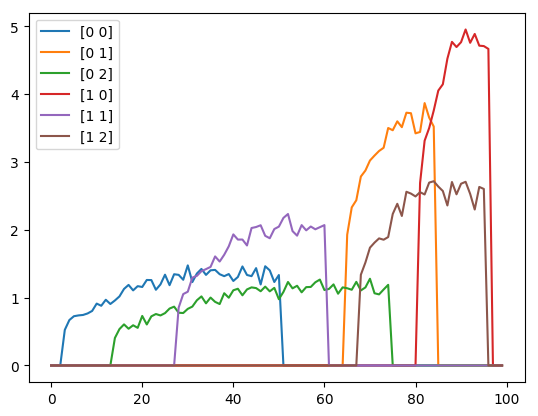
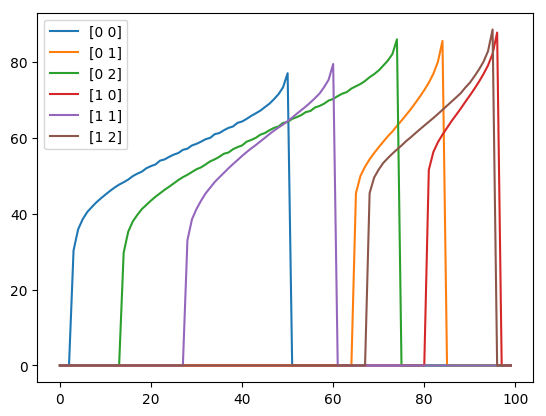
refactoring and bug fixing

diff --git a/src/cfa/cfa.py b/src/cfa/cfa.py
@@ -8,6 +8,7 @@ import ot
 import numpy as np
 import pandas as pd
 import matplotlib.pyplot as plt
+from mpmath import norm
 
 
 class ContinuousFairnessAlgorithm():
@@ -15,10 +16,15 @@ class ContinuousFairnessAlgorithm():
     TODO: write doc
     """
 
-    def __init__(self, rawData, score_ranges, score_stepsize, thetas, regForOT, path='.', plot=False):
+    def __init__(self, rawData, groups, prot_attr, qual_attr, score_ranges, score_stepsize, thetas, regForOT, path='.', plot=False):
         """
         @param rawData:          pandas dataframe with scores per group, groups do not necessarily have same
                                  amount of scores, i.e. data might contain NaNs
+        @param groups:           all possible groups in data as dataframe. One row contains manifestations
+                                 of protected attributes, hence represents a group
+                                 example: [[white, male], [white, female], [hispanic, male], [hispanic, female]]
+        @param prot_attr:        column names that are protected attributes
+        @param qual_attr:        name of column that contains the scores
         @param score_ranges:     tuple that contains the lower and upper most possible score
         @param score_stepsize:   stepsize between two scores
         @param thetas:           vector of parameters that determine how close a distribution is to be moved to
@@ -30,7 +36,11 @@ class ContinuousFairnessAlgorithm():
         """
 
         self.__rawData = rawData
-        self.__groupNames = self.__rawData.columns.values.tolist()
+        self.__qualityAtribute = qual_attr
+        self.__protectedAttributes = prot_attr
+        self.__rawDataByGroup = self.__getScoresByGroup(rawData, groups, qual_attr)
+        self.__groupNames = self.__rawDataByGroup.columns.values.tolist()
+        self.__groups = groups  # TODO: das könnte man elefanter lösen, hier ist jetzt einiges doppelt und dreifach...nochmal refactoring machen
         self.__score_values = np.arange(score_ranges[0], score_ranges[1] + score_stepsize, score_stepsize)
         # calculate bin number for histograms and loss matrix size
         self.__num_bins = int(len(self.__score_values))
@@ -43,16 +53,43 @@ class ContinuousFairnessAlgorithm():
         self.__regForOT = regForOT
 
         self.__fairData = pd.DataFrame()
-        self.__rawDataAsHistograms = pd.DataFrame(columns=self.__groupNames)
+        self.__rawDataPerGroupAsHistograms = pd.DataFrame(columns=self.__groupNames)
         self.__fairDataAsHistograms = pd.DataFrame(columns=self.__groupNames)
 
         self.__plotPath = path
         self.__plot = plot
 
-    def __getGroupHistograms(self, data, histograms, bin_edges):
+    def __getScoresByGroup(self, data, groups, qual_attr):
+        """
+        takes a dataset with one item per row and each item has qualifying as well as sensitive
+        attributes.
+        takes all values from column qual_attr and resorts data such that result contains all scores from
+        qual_attr in one column per group of sensitive attributes.
+
+            @param groups:                 all possible groups in data as dataframe. One row contains manifestations
+                                           of protected attributes, hence represents a group
+                                           example: [[white, male], [white, female], [hispanic, male], [hispanic, female]]
+        @param qual_attr:              name of column that contains the quality attribute (only one possible)
+
+        @return: dataframe with group labels as column names and scores per group as column values
+        """
+        protectedAttributes = groups.columns.values
+        result = pd.DataFrame(dtype=float)
+        # select all rows that belong to one group
+        for _, group in groups.iterrows():
+            colName = str(group.values)
+            scoresPerGroup = pd.DataFrame(data)
+            for prot_attr in protectedAttributes:
+                scoresPerGroup = scoresPerGroup.loc[(scoresPerGroup[prot_attr] == group.get(prot_attr))]
+            resultCol = pd.DataFrame(data=scoresPerGroup[qual_attr].values, columns=[colName])
+            # needs concat to avoid data loss in case new resultCol is longer than already existing result
+            # dataframe
+            result = pd.concat([result, resultCol], axis=1)
+        return result
+
+    def __getDataAsHistograms(self, data, histograms, bin_edges):
         # get histogram from each column and save to new dataframe
         # gets as parameters pointers to raw data and new dataframe where to save the histograms
-
         for groupName in data.columns:
             groupColNoNans = pd.DataFrame(data[groupName][~np.isnan(data[groupName])])
             colAsHist = np.histogram(groupColNoNans[groupName], bins=bin_edges, density=True)[0]
@@ -63,11 +100,11 @@ class ContinuousFairnessAlgorithm():
 
     def __getTotalBarycenter(self):
         # calculate group sizes in total and percent
-        groupSizes = self.__rawData.count()
-        groupSizesPercent = self.__rawData.count().divide(groupSizes.sum())
+        groupSizes = self.__rawDataByGroup.count()
+        groupSizesPercent = self.__rawDataByGroup.count().divide(groupSizes.sum())
 
         # compute general barycenter of all score distributions
-        total_bary = ot.bregman.barycenter(self.__rawDataAsHistograms,
+        total_bary = ot.bregman.barycenter(self.__rawDataPerGroupAsHistograms,
                                            self.__lossMatrix,
                                            self.__regForOT,
                                            weights=groupSizesPercent.values,
@@ -81,9 +118,9 @@ class ContinuousFairnessAlgorithm():
     def __get_group_barycenters(self, total_bary):
         # compute barycenters between general barycenter and each score distribution (i.e. each social group)
         group_barycenters = pd.DataFrame(columns=self.__groupNames)
-        for groupName in self.__rawDataAsHistograms:  # build 2-column matrix from group data and general barycenter
-            groupMatrix = pd.concat([self.__rawDataAsHistograms[groupName], pd.Series(total_bary)], axis=1)  # get corresponding theta
-            theta = self.__thetas[self.__rawDataAsHistograms.columns.get_loc(groupName)]  # calculate barycenters
+        for groupName in self.__rawDataPerGroupAsHistograms:  # build 2-column matrix from group data and general barycenter
+            groupMatrix = pd.concat([self.__rawDataPerGroupAsHistograms[groupName], pd.Series(total_bary)], axis=1)  # get corresponding theta
+            theta = self.__thetas[self.__rawDataPerGroupAsHistograms.columns.get_loc(groupName)]  # calculate barycenters
             weights = np.array([1 - theta, theta])
             group_barycenters[groupName] = ot.bregman.barycenter(groupMatrix,
                                                                  self.__lossMatrix,
@@ -96,37 +133,56 @@ class ContinuousFairnessAlgorithm():
             self.__plott(group_barycenters, 'groupBarycenters.png')
         return group_barycenters
 
-    def __calculateFairScores(self, group_barycenters, total_bary):
+    def __calculateFairReplacementStrategy(self, group_barycenters):
         # calculate new scores from group barycenters
         groupFairScores = pd.DataFrame(columns=self.__groupNames)
         for groupName in self.__groupNames:
-            ot_matrix = ot.emd(self.__rawDataAsHistograms[groupName],
+            ot_matrix = ot.emd(self.__rawDataPerGroupAsHistograms[groupName],
                                group_barycenters[groupName],
                                self.__lossMatrix)
 #             plt.imshow(ot_matrix)
-#             plt.show()
-            # TODO: landet man damit auf jeden Fall im gleichen Score Range?
-            groupFairScores[groupName] = np.matmul(ot_matrix, self.__score_values.T)
+            # normalize OT matrix such that each row sums up to 1
+            norm_vec = np.matmul(ot_matrix, np.ones(ot_matrix.shape[0]))
+            inverse_norm_vec = np.reciprocal(norm_vec)
+            inverse_norm_vec = np.nan_to_num(inverse_norm_vec, copy=False)
+            norm_matrix = np.diag(inverse_norm_vec)
+            normalized_ot_matrix = np.matmul(norm_matrix, ot_matrix)
+
+            groupFairScores[groupName] = np.matmul(normalized_ot_matrix, self.__score_values.T)
 
         if self.__plot:
             self.__plott(groupFairScores, 'fairScoreReplacementStrategy.png')
 
-        for groupName in self.__rawData.columns:
-            groupRawScores = self.__rawData[groupName][~np.isnan(self.__rawData[groupName])]
-            fairScores = groupFairScores[groupName]
+        return groupFairScores
 
+    def __replaceRawByFairScores(self, groupFairScores):
+
+        def replace(rawData, colName, groupName):
+            rawScores = rawData[colName]
+            replaced = rawData.copy()
+            fairScores = groupFairScores[groupName]
             for index, fairScore in fairScores.iteritems():
                 range_left = self.__bin_edges[index]
                 range_right = self.__bin_edges[index + 1]
-                toBeReplaced = np.where((groupRawScores > range_left) & (groupRawScores <= range_right))[0]
-                groupRawScores[toBeReplaced] = fairScore
-            self.__fairData = pd.concat([self.__fairData, groupRawScores], axis=1)
+                replaceAtIndex = rawScores.between(range_left, range_right)
+                replaced.at[replaceAtIndex, colName] = fairScore
+                # TODO: fair scores stehen nicht an der richtigen Stelle, d.h. für Gruppe 00 stehen die
+                # fair scores in den vorderen Indexen, aber die Scores fangen erst höher an
+            return replaced
+
+        for groupName in groupFairScores.columns:
+            self.__fairData = self.__rawData.copy()
+            self.__fairData = self.__fairData.groupby(list(self.__protectedAttributes), as_index=False,
+                                                    sort=False).apply(replace,
+                                                                      colName=self.__qualityAtribute,
+                                                                      groupName=groupName)
 
         if self.__plot:
-            self.__fairData.plot.kde()
-            plt.savefig(self.__plotPath + 'fairScoreDistributionPerGroup.png', dpi=100, bbox_inches='tight')
-            bin_edges = np.linspace(groupFairScores.min().min(), groupFairScores.max().max(), int(self.__num_bins))
-            self.__getGroupHistograms(self.__fairData, self.__fairDataAsHistograms, bin_edges)
+            fairDataPerGroup = self.__getScoresByGroup(self.__fairData, self.__groups, self.__qualityAtribute)
+#             fairDataPerGroup.plot.kde()
+#             plt.savefig(self.__plotPath + 'fairScoreDistributionPerGroup.png', dpi=100, bbox_inches='tight')
+#             bin_edges = np.linspace(groupFairScores.min().min(), groupFairScores.max().max(), int(self.__num_bins))
+            self.__getDataAsHistograms(fairDataPerGroup, self.__fairDataAsHistograms, self.__bin_edges)
             self.__plott(self.__fairDataAsHistograms, 'fairScoresAsHistograms.png')
 
     def __plott(self, dataframe, filename):
@@ -139,13 +195,14 @@ class ContinuousFairnessAlgorithm():
         and they have to be represented somehow as integers, otherwise the algorithm doesn't work
         """
 
-        self.__getGroupHistograms(self.__rawData, self.__rawDataAsHistograms, self.__bin_edges)
-        print(self.__rawDataAsHistograms.idxmax())
+        self.__getDataAsHistograms(self.__rawDataByGroup, self.__rawDataPerGroupAsHistograms, self.__bin_edges)
+        print(self.__rawDataPerGroupAsHistograms.idxmax())
         if self.__plot:
-            self.__plott(self.__rawDataAsHistograms, 'rawScoresAsHistograms.png')
+            self.__plott(self.__rawDataPerGroupAsHistograms, 'rawScoresAsHistograms.png')
 
         total_bary = self.__getTotalBarycenter()
         group_barycenters = self.__get_group_barycenters(total_bary)
 
-        self.__calculateFairScores(group_barycenters, total_bary)
+        fairScoreReplacementStrategy = self.__calculateFairReplacementStrategy(group_barycenters)
+        self.__replaceRawByFairScores(fairScoreReplacementStrategy)
 

diff --git a/src/main.py b/src/main.py
@@ -46,7 +46,7 @@ def createLSATDatasets():
     plotKDEPerGroup(creator.dataset, creator.groups, 'ZFYA', '../data/LSAT/gender/scoreDistributionPerGroup_Gender_ZFYA', '')
 
 
-def rerank_with_cfa(score_ranges, score_stepsize, thetas, result_dir, pathToData, pathToGroups, qual_attr):
+def rerank_with_cfa(score_ranges, score_stepsize, thetas, result_dir, pathToData, pathToGroups, qual_attr, prot_attr):
     data = pd.read_csv(pathToData, sep=',')
     groups = pd.read_csv(pathToGroups, sep=',')
 
@@ -56,11 +56,14 @@ def rerank_with_cfa(score_ranges, score_stepsize, thetas, result_dir, pathToData
 
     regForOT = 5e-3
 
-    scoresPerGroup = scoresByGroups(data, groups, qual_attr)
-    cfa = ContinuousFairnessAlgorithm(scoresPerGroup,
+    cfa = ContinuousFairnessAlgorithm(data,
+                                      groups,
+                                      prot_attr,
+                                      qual_attr,
                                       score_ranges,
                                       score_stepsize,
-                                      thetas, regForOT,
+                                      thetas,
+                                      regForOT,
                                       path=result_dir,
                                       plot=True)
     cfa.continuousFairnessAlgorithm()
@@ -117,7 +120,8 @@ def main():
                             result_dir,
                             '../data/synthetic/dataset.csv',
                             '../data/synthetic/groups.csv',
-                            'score')
+                            'score',
+                            ["gender", "ethnicity"])
         elif args.run[0] == 'LSAT_gender':
             # TODO: run experiments also with ZFYA
             rerank_with_cfa(thetas,
